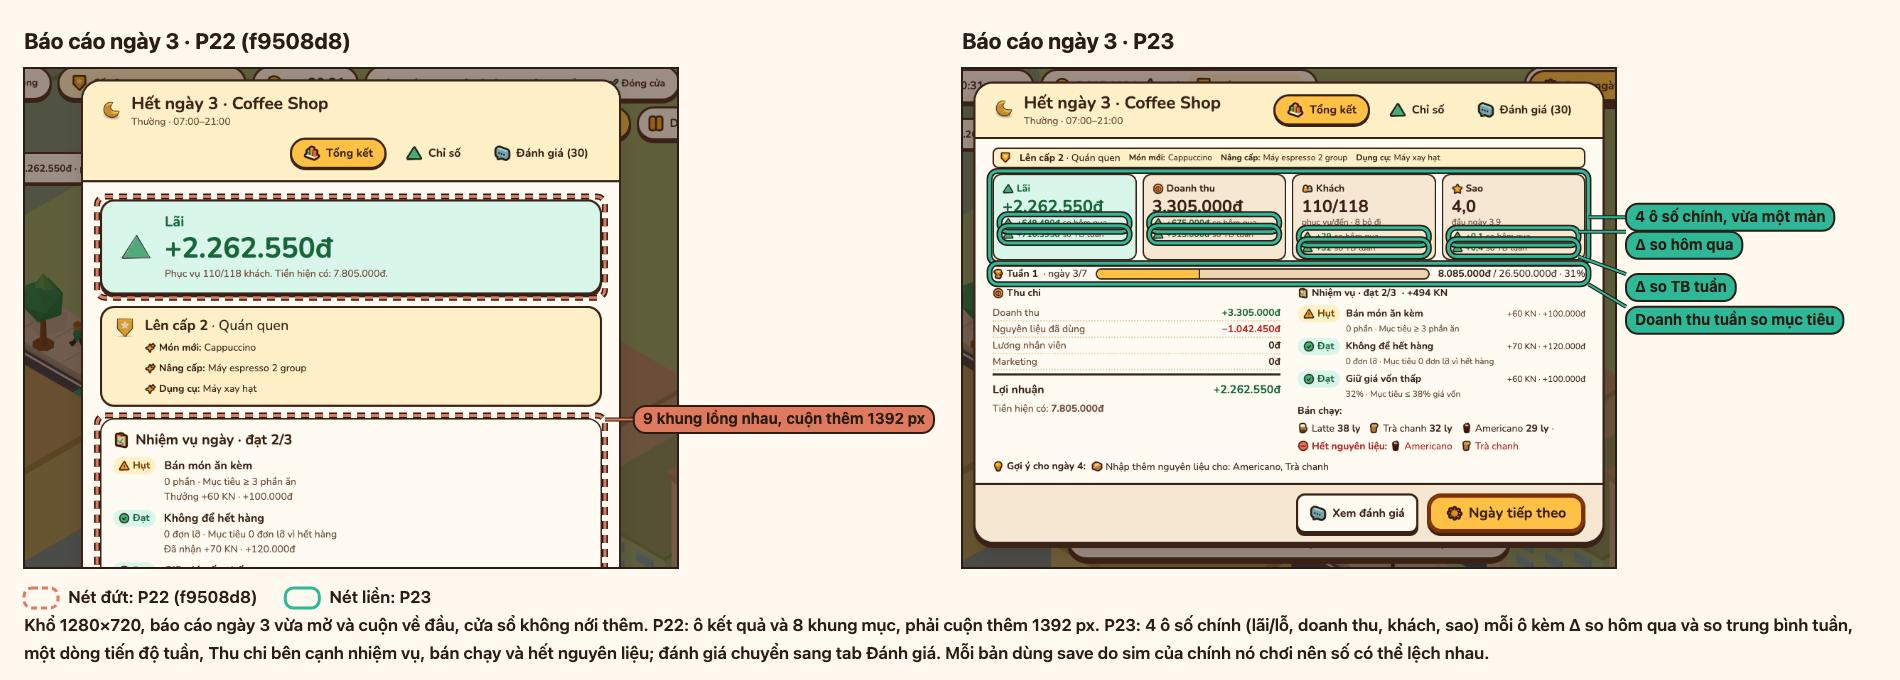
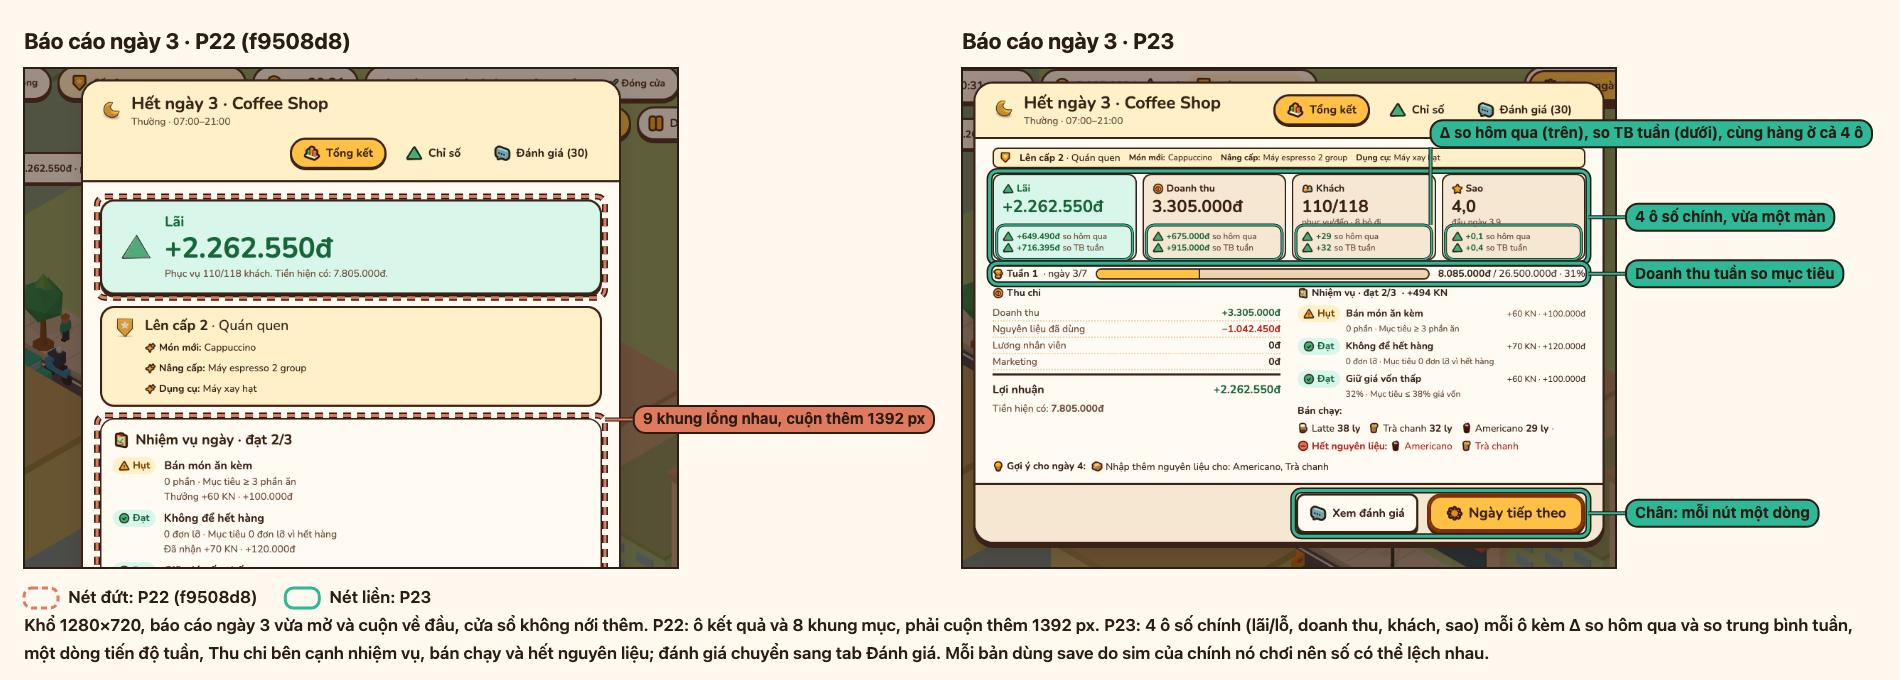
docs(media): recapture P23 boards with one-row report footer
Delta rings now grow only sideways and down, clear of the sub line.

diff --git a/docs/reports/p23-ui.md b/docs/reports/p23-ui.md
@@ -19,7 +19,7 @@
 
 | Khổ | Ảnh | Đã sửa |
 | --- | --- | --- |
-| 390 | ![Báo cáo ngày 3, 390](p23-review/report-day3-390-p23.jpg) | Ô kết quả và các khung mục lồng nhau thành 4 ô số chính (lãi/lỗ, doanh thu, khách, sao), mỗi ô có Δ so hôm qua và Δ so TB tuần, Δ của cả 4 ô cùng hàng (khoanh nét mảnh ngoài vùng chữ); phần phải cuộn ít hơn 1849 px của P22 (số đo trên nhãn ảnh). Chân là một hàng: nút "Ngày tiếp theo" chiếm phần lớn bề ngang, "Xem đánh giá" thu về icon; Dock và huy hiệu ẩn khi báo cáo mở. |
+| 390 | ![Báo cáo ngày 3, 390](p23-review/report-day3-390-p23.jpg) | Ô kết quả và các khung mục lồng nhau thành 4 ô số chính (lãi/lỗ, doanh thu, khách, sao), mỗi ô có Δ so hôm qua và Δ so TB tuần, Δ của cả 4 ô cùng hàng (khoanh nét mảnh ngoài vùng chữ); phần phải cuộn giảm từ 1849 px xuống 401 px. Chân là một hàng: nút "Ngày tiếp theo" chiếm phần lớn bề ngang, "Xem đánh giá" thu về icon; Dock và huy hiệu ẩn khi báo cáo mở. |
 | 1280 | ![Báo cáo ngày 3, 1280](p23-review/report-day3-1280-p23.jpg) | 4 ô số kèm Δ so hôm qua và so TB tuần cùng hàng, một dòng doanh thu tuần so mục tiêu, Thu chi cạnh nhiệm vụ; phần phải cuộn 1392 px thành vừa một màn. |
 
 ## 3. Tổng kết tuần 1 và tuần 2
